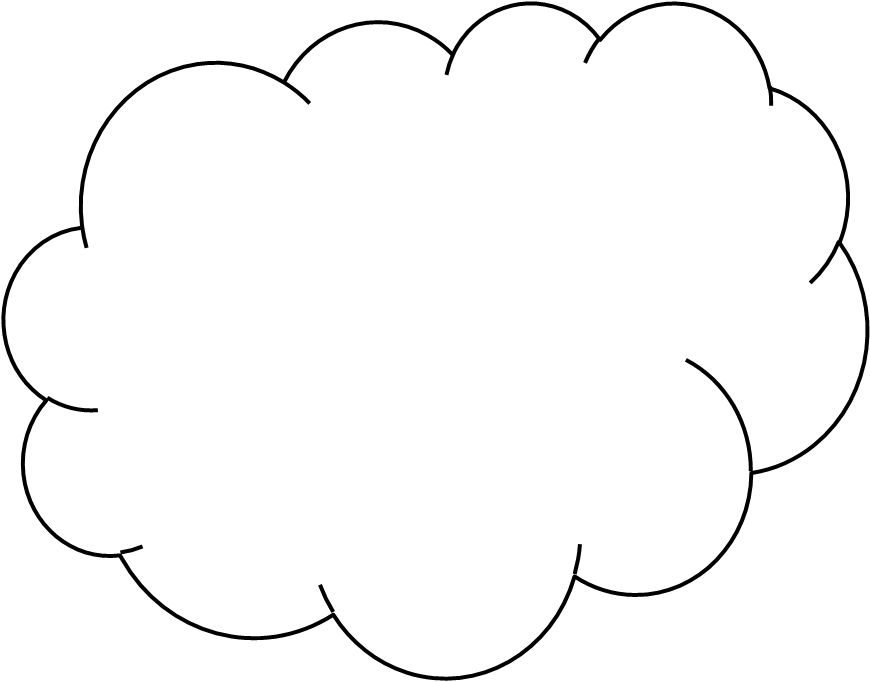
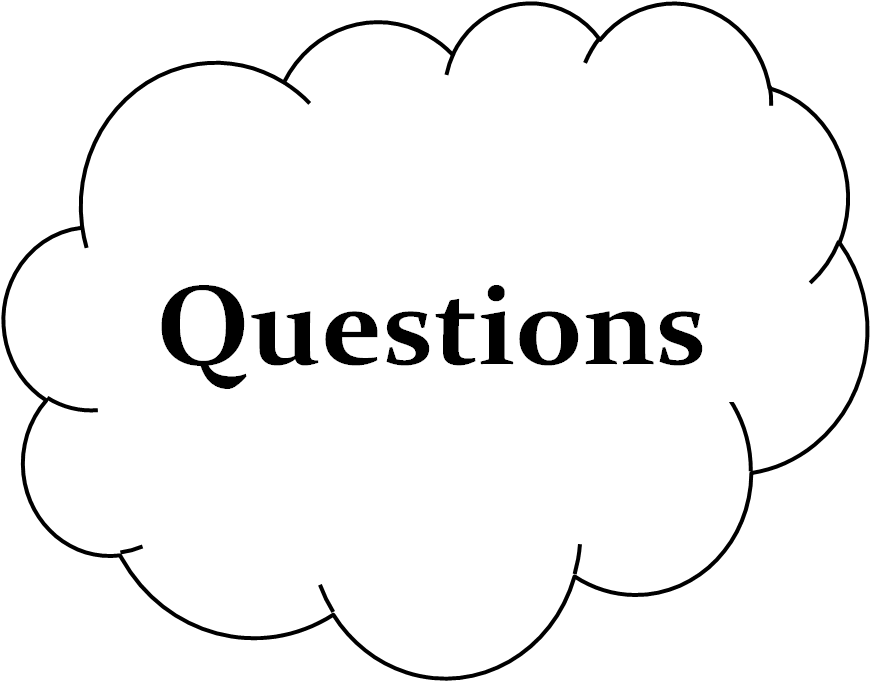
Added more style. Cloud image, background color, etc.

Changed region(s): [[0.1862, 0.4003, 0.8379, 0.585]]

diff --git a/index.html b/index.html
@@ -6,38 +6,30 @@
 	<meta name="author" content="David Becerra">
 	<meta name="description" content="Project 1 for cs-15 course">
 </head>
-<body>
+<body style="background-color: #FFFFC2;">
 	<div id="container">
 
 		<div id="image">
 			<img class="headshot" src="images/fro.jpg">
-			<img class="cloud" src="images/cloud.png">
-		</div>
-
-		<div id="links">
-			<p><a href="#questions" id="link1">link1</a></p>
-			<p><a href="#questions">link2</a></p>
-			<p><a href="#questions">link3</a></p>
-			<p><a href="#questions">link4</a></p>
-			<p><a href="#questions">link5</a></p>
-			<p><a href="#questions">link6</a></p>
-			<p><a href="#questions">link7</a></p>
+			<a href="#questions">
+				<img class="cloud" src="images/cloud.png">
+			</a>
 		</div>
 
 		<div id="questions">
-			<h1>Personal Description</h1>
+			<h1 class="question">Personal Description</h1>
 			My name is David Becerra. I am going to be a senior this fall at Harvard University, and I am concentrating in computer science and math. This summer, I am working as a math tutor for the Academic Tutoring Program in addition to being a proctor for the summer school.
-			<h1>Why are you taking this course?</h1>
+			<h1 class="question">Why are you taking this course?</h1>
 			<p>The reason I am taking this course is rather straightforward: I want to learn more web development. Way back when I was a freshman enrolled in CS50, I learned the basics of web development. I used my final project as a means to explore the subject further; my project group designed a website where users could reserve and order food from restaurants online. Unfortunately, that was really the last major time I did any web development. I've always wanted to continue creating and designing cool new websites, and so this class seems like a perfect tool to push me back into web design.</p>	
-			<h1>What previous experience do you have with HTML/CSS?</h1>
+			<h1 class="question">What previous experience do you have with HTML/CSS?</h1>
 			<p>I took the Harvard course Computer Science 50 which covered the basics of HTML and CSS. As stated above, I made a website for my final project. I have no other HTML/CSS experience outside of that class.</p>
-			<h1>What previous experience do you have with programming?</h1>
+			<h1 class="question">What previous experience do you have with programming?</h1>
 			<p>I have been progamming since I was a freshman in college, so almost for three years now. In that time I have programmed in C, C++, Pearl, Python, PHP, Javascript, Ocaml, Haskell, and Matlab. At Harvard I have taken CS50, CS51, CS175, CS277, CS182, CS121, CS124, CS61, and CS152. These courses ranged from low level programming to artifial intelligence to computer graphics. Outside of class, I have done handful of small independent projects using Pearl and C++.</p>
-			<h1>Have you worked with PHP before? If so, to what extent?</h1>
+			<h1 class="question">Have you worked with PHP before? If so, to what extent?</h1>
 			<p>I have worked with PHP before. The course CS50 went over the basics of PHP. In that class, we learned how to use it to communicate with a MYSQL database. In addition, I utilized a substantial amount of PHP in my final CS50 project.</p>
-			<h1>Are you working on a Mac, PC, or some other platform?</h1>
+			<h1 class="question">Are you working on a Mac, PC, or some other platform?</h1>
 			<p>I am working on a PC with Windows 7.</p>
-			<h1>Anything else we should know?</h1>
+			<h1 class="question">Anything else we should know?</h1>
 			<p>I love video games!!.....No I think that's everything.</p>
 		</div>
 	</div>

diff --git a/stylesheet/index.css b/stylesheet/index.css
@@ -1,4 +1,4 @@
-h1,p {
+h1 {
 	text-align: center;
 }
 
@@ -17,9 +17,16 @@ img.headshot {
 
 img.cloud {
 	position: relative;
-	top: -600px;
-	left: 600px;
+	top: -540px;
+	left: 700px;
 	height: 20%;
 	width: 20%;
 }
 
+h1.question {
+	border-style: solid;
+	border-width: 5px;
+	border-color: #a1a1a1;
+	border-radius: 25px;
+	background-color: #dddddd;
+}
